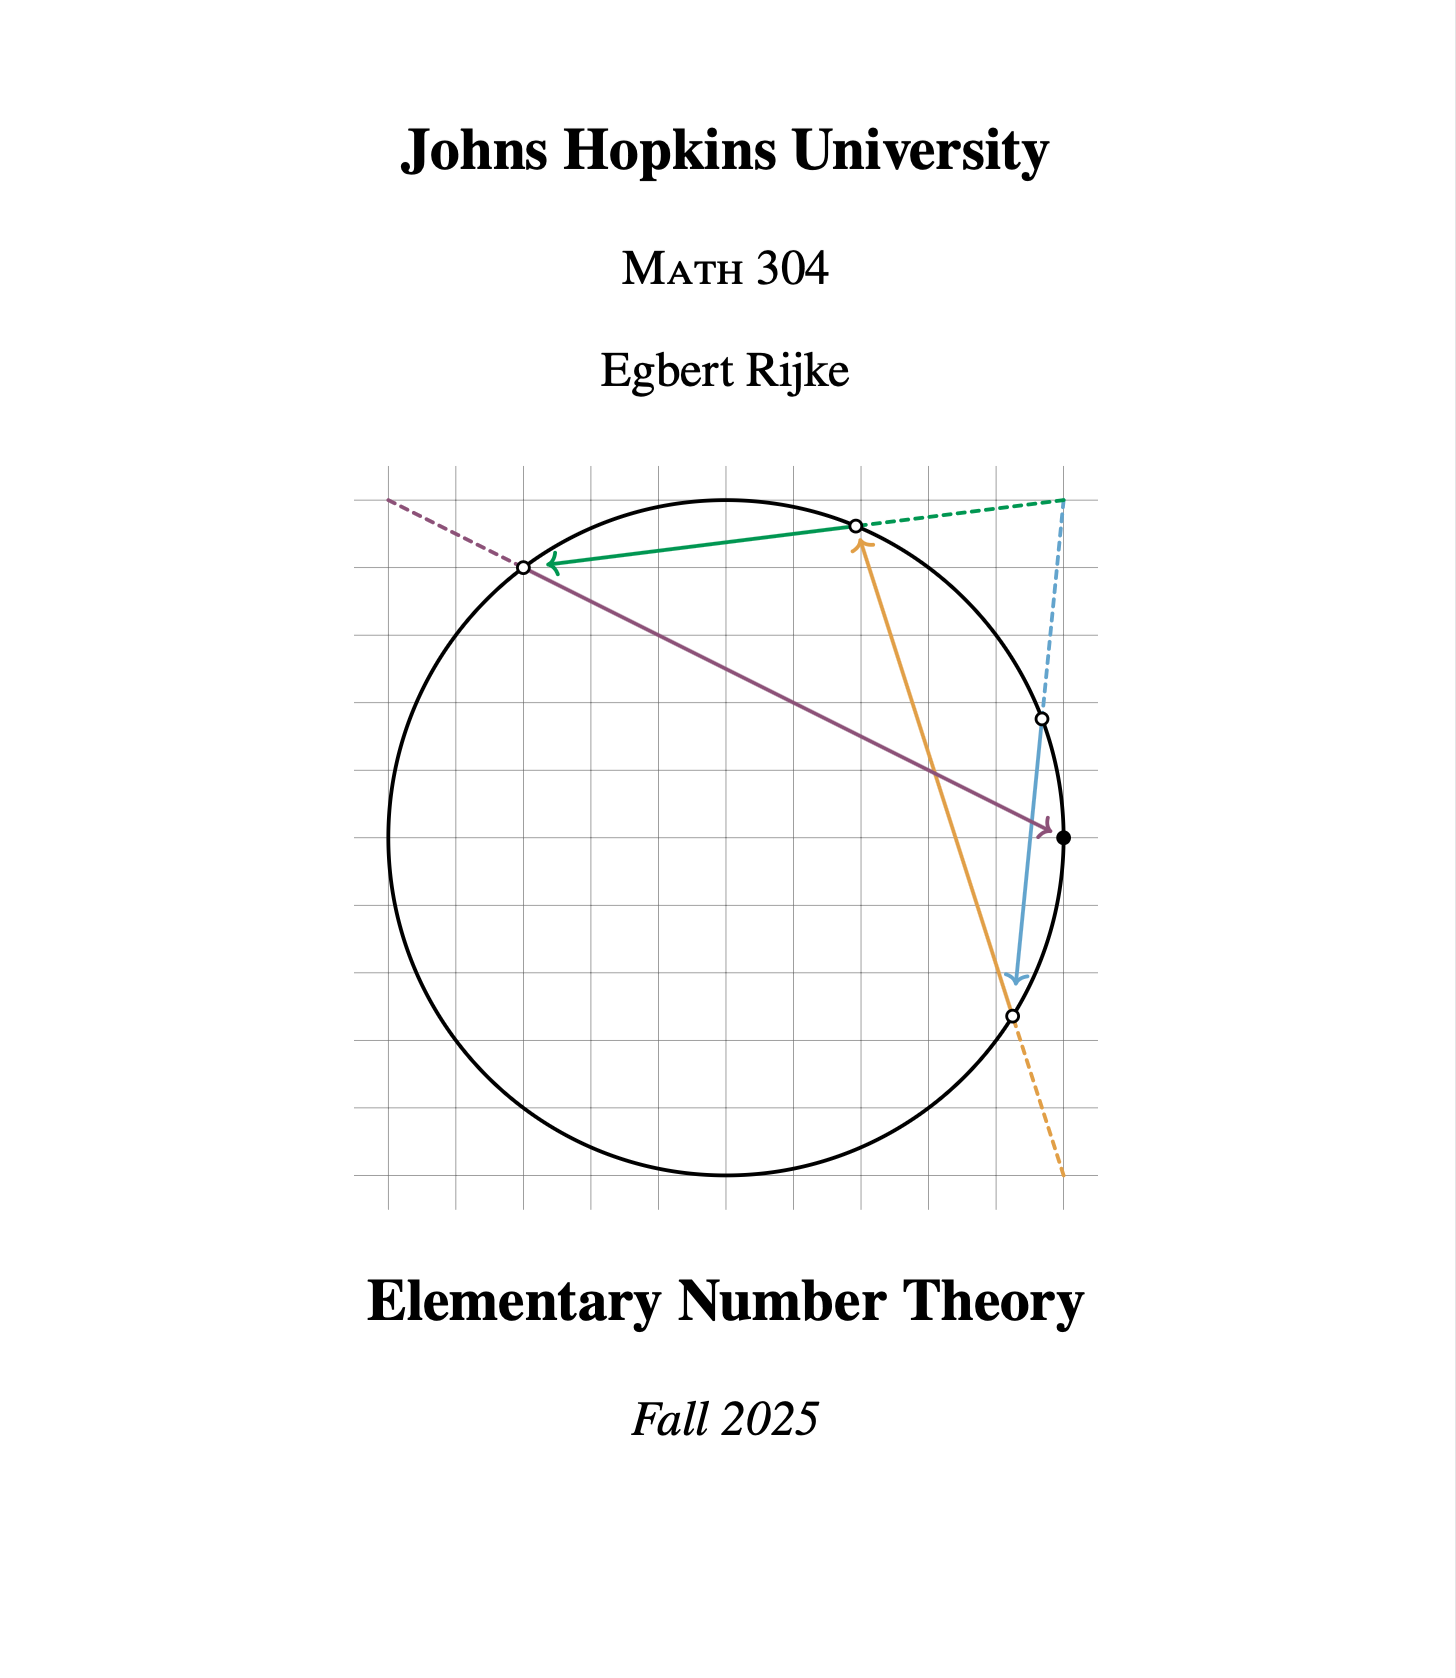
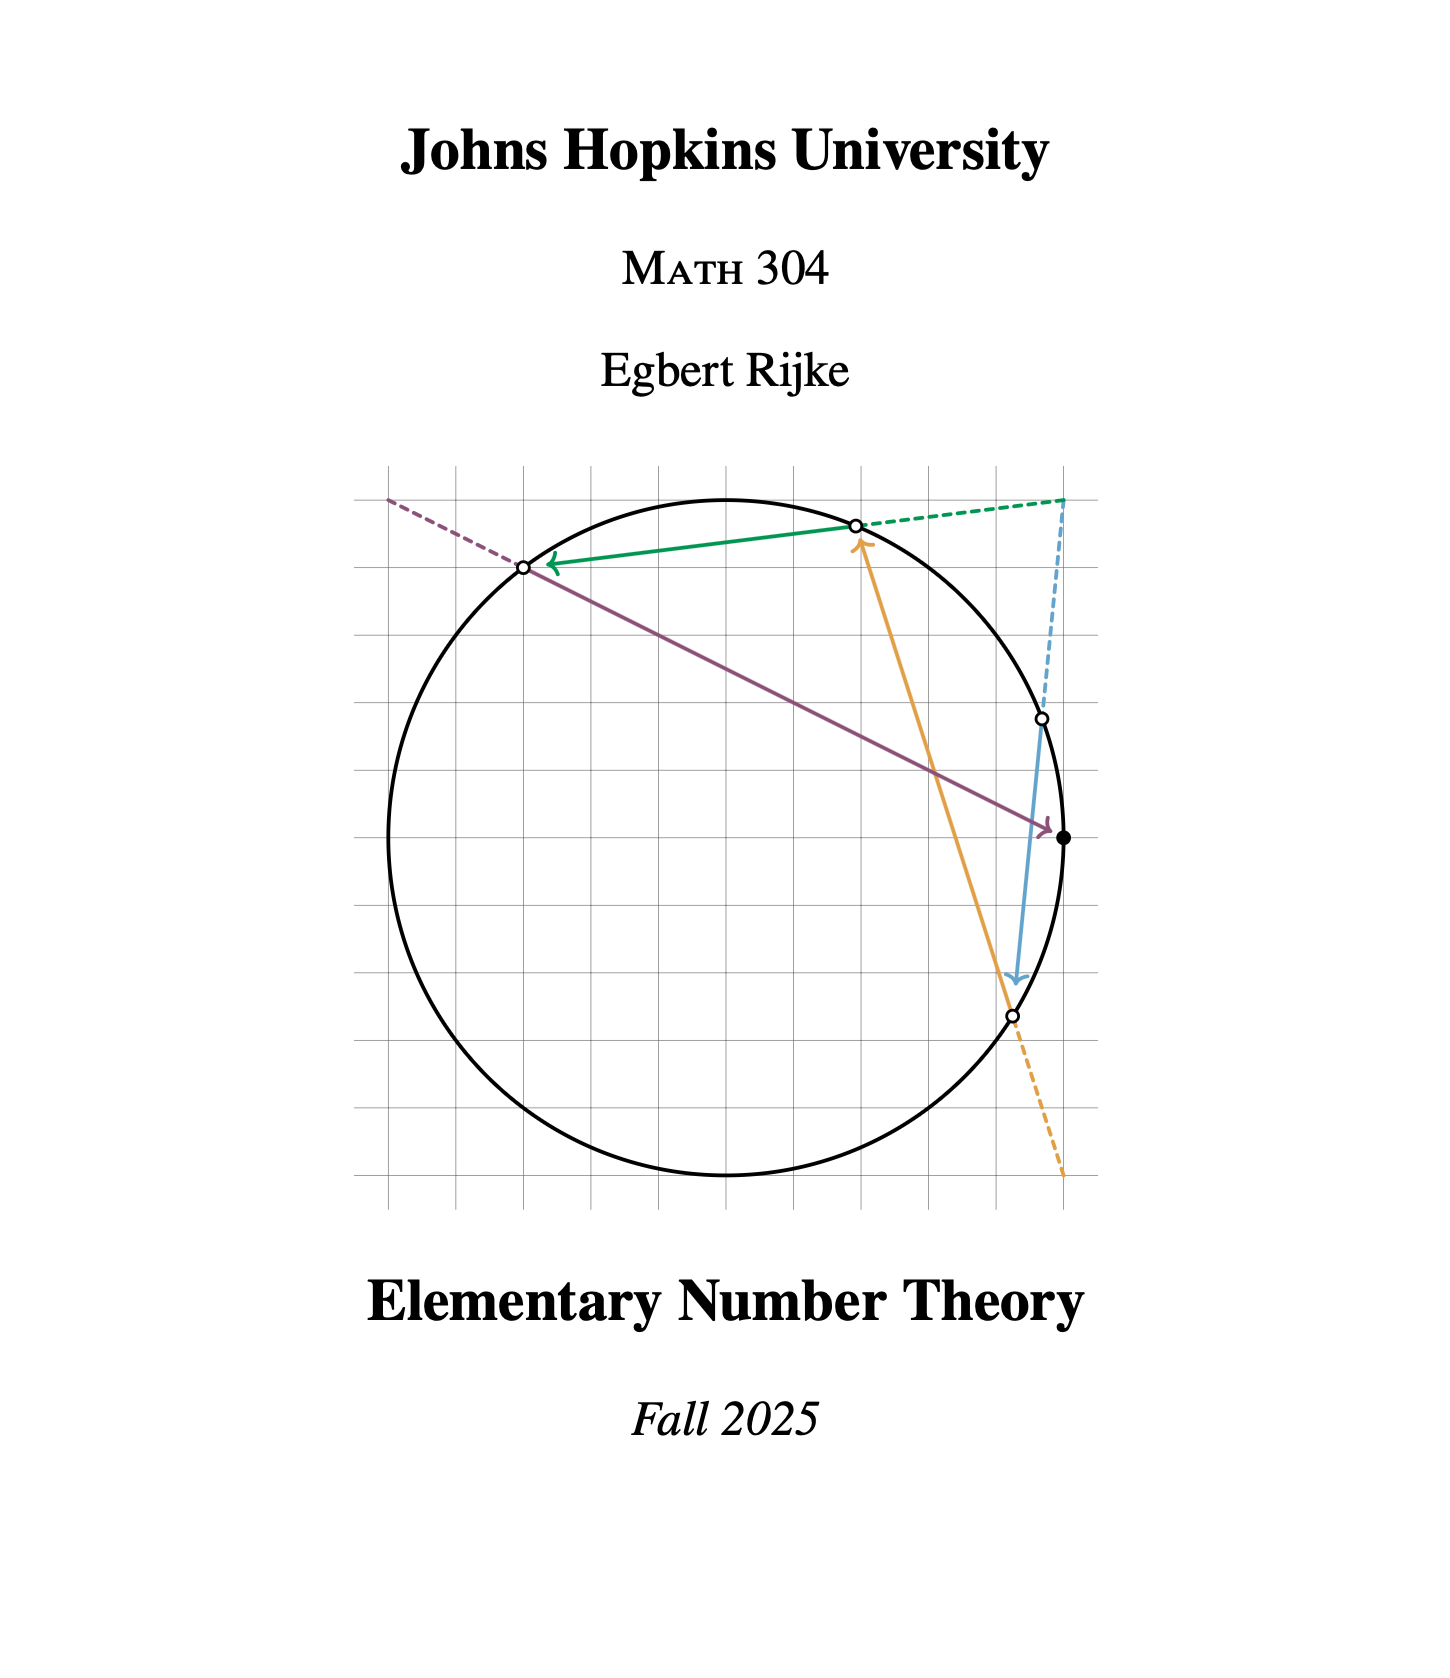
smaller image

diff --git a/number-theory-notes.md b/number-theory-notes.md
@@ -4,7 +4,7 @@ These are course notes for the course 304 Elementary Number Theory, which I taug
 
 [\[Download the course notes (pdf, 319 pages)\]](elementary-number-theory-fall.pdf)
 
-![Front page of the Elementary Number Theory course notes by Egbert Rijke](elementary-number-theory-notes-front-page.png)
+<img src="elementary-number-theory-notes-front-page.png" alt="Front page of the Elementary Number Theory course notes by Egbert Rijke" style="width:50%;">
 
 ## Basic information
 
